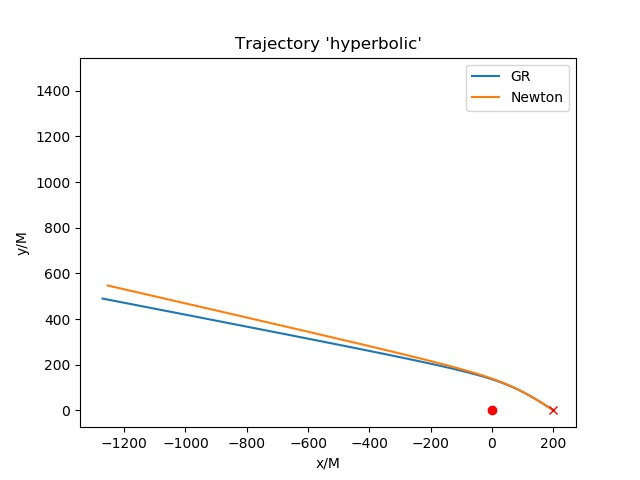
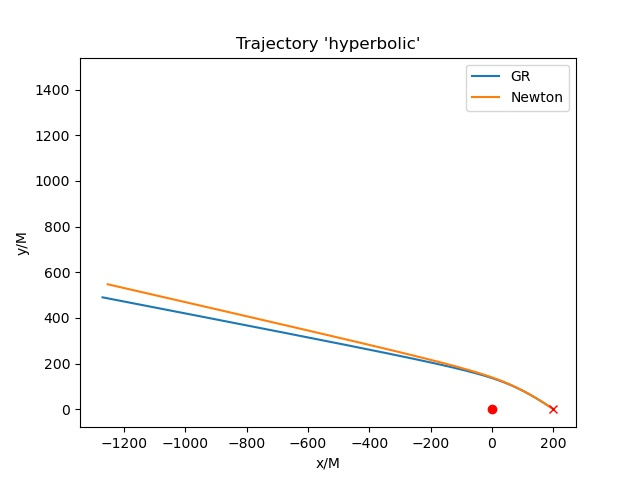
Added earth sun system

diff --git a/BH_geodesics.py b/BH_geodesics.py
@@ -146,7 +146,7 @@ def plot(vals, sol, sol_newton):
 	if vals['compare']:
 		x_N, y_N = to_cartesian(sol_newton['y'][0,:], sol_newton['y'][1,:])
 		plt.plot(x_N, y_N, label = 'Newton')
-	plt.legend()
+	plt.legend(loc = 'upper right')
 	plt.plot(0, 0, 'o', lw = .5, c = 'red')
 	plt.plot(x[0], y[0], 'x', lw = 4, c = 'red')
 	circle=plt.Circle((0,0),2, facecolor = 'k', edgecolor = 'k', lw = 2)

diff --git a/README.md b/README.md
@@ -91,6 +91,12 @@ If we start closer to the black hole, the gravitational deviation effect will be
 
 Note that in every case, the effect of Newtonian physics and those of GR are very different! This is only because a 1/r**3 term in the potential: cool, isn't it?
 
+Of course, GR is not always important. If we take the case of the earth orbiting around the sun, the Newtonian physics works just fine:
+
+<p align="center">
+  <img src="https://github.com/stefanoschmidt1995/BH_geodesics/blob/master/plots/earth_sun_trajectory.jpeg">
+</p>
+
 ## Author
 
 This was part of the tutorial for a GR course at Utrecht Univerisity. If you want more information, please feel free to send me an email: [stefanoschmidt1995@gmail.com](mailto:stefanoschmidt1995@gmail.com)
